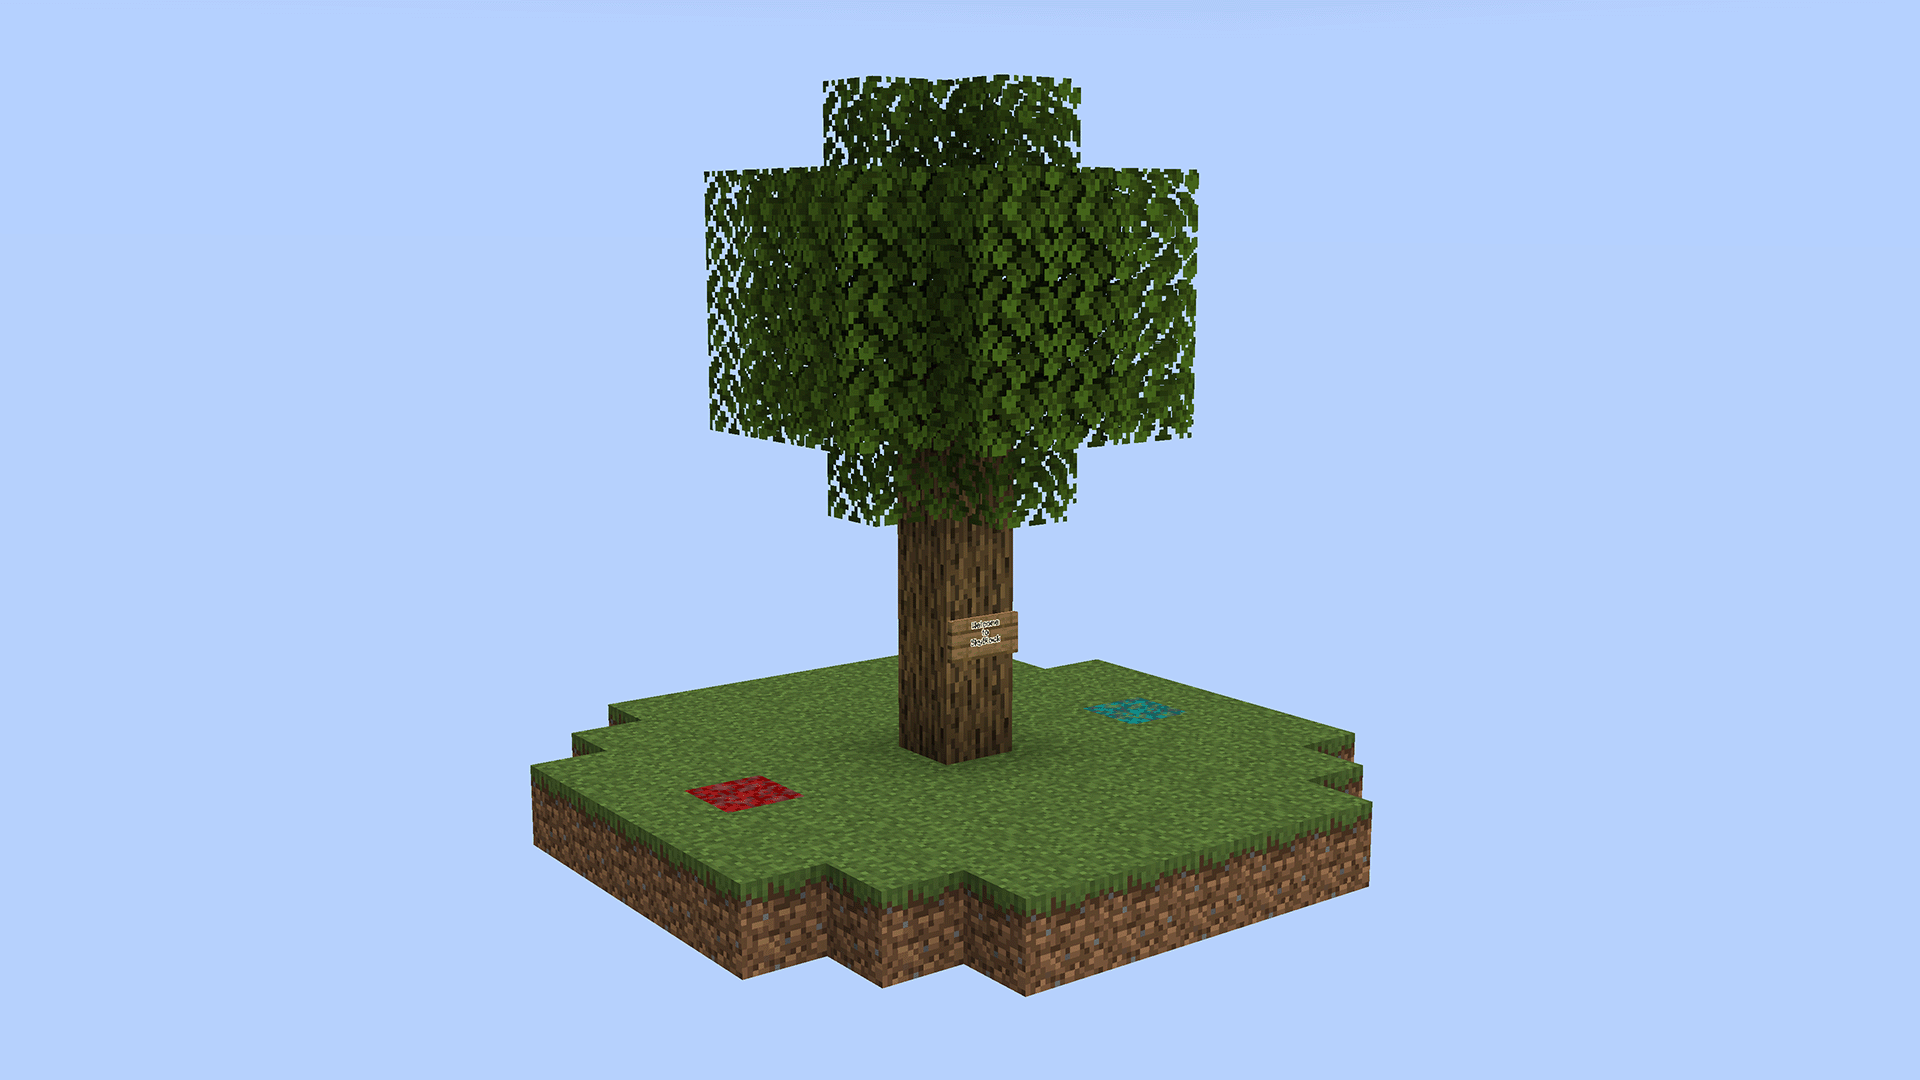
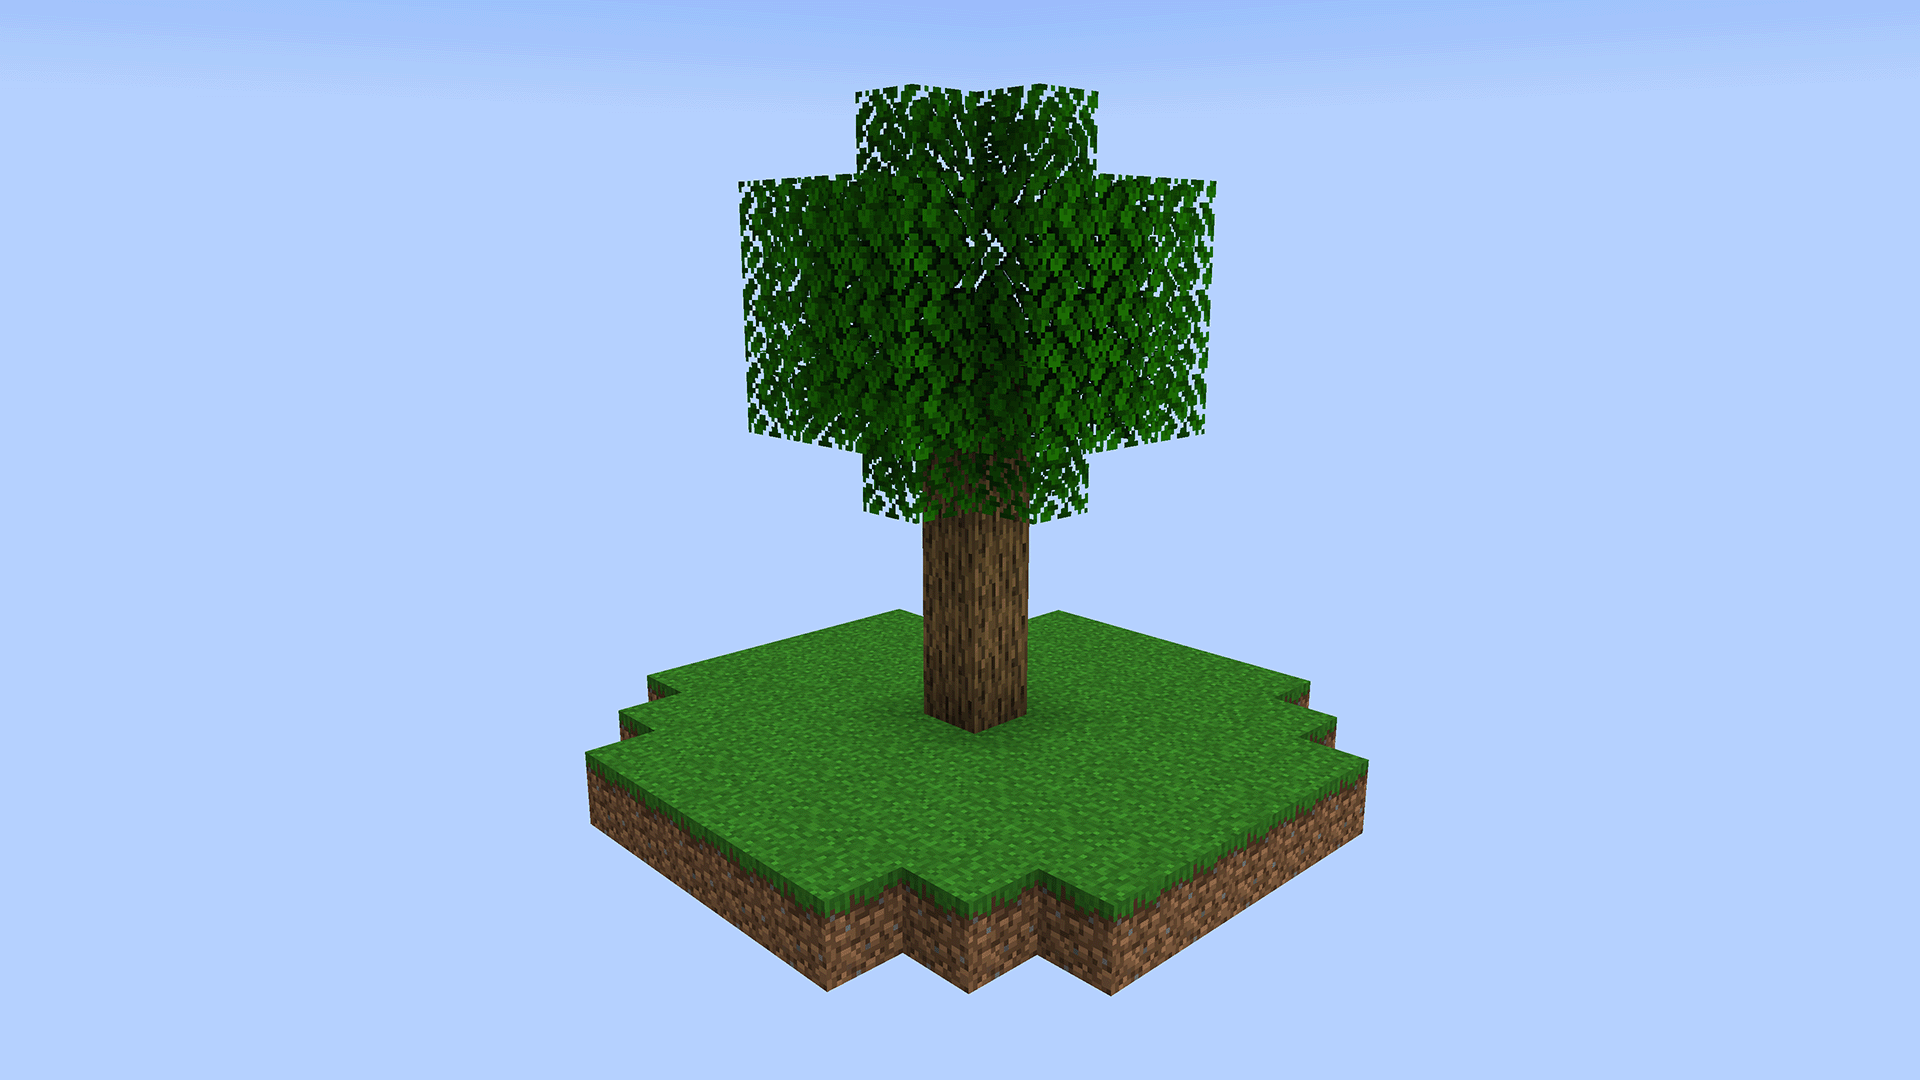
Remove Nylium from the start platform and make it generate with forced portals

Changed region(s): [[0.125, 0.0, 0.8438, 0.9167]]

diff --git a/src/main/java/com/jsorrell/carpetskyadditions/mixin/PortalForcerMixin.java b/src/main/java/com/jsorrell/carpetskyadditions/mixin/PortalForcerMixin.java
@@ -1,12 +1,14 @@
 package com.jsorrell.carpetskyadditions.mixin;
 
 import com.jsorrell.carpetskyadditions.settings.SkyAdditionsSettings;
+import net.minecraft.block.BlockState;
 import net.minecraft.block.Blocks;
 import net.minecraft.server.world.ServerWorld;
 import net.minecraft.util.math.BlockPos;
 import net.minecraft.util.math.Direction;
 import net.minecraft.world.BlockLocating;
 import net.minecraft.world.PortalForcer;
+import net.minecraft.world.biome.BiomeKeys;
 import org.spongepowered.asm.mixin.Final;
 import org.spongepowered.asm.mixin.Mixin;
 import org.spongepowered.asm.mixin.Shadow;
@@ -23,6 +25,15 @@ public class PortalForcerMixin {
   @Final
   private ServerWorld world;
 
+  private BlockState getPortalSkirtBlock(BlockPos pos) {
+    if (world.getBiome(pos).matchesKey(BiomeKeys.CRIMSON_FOREST)) {
+      return Blocks.CRIMSON_NYLIUM.getDefaultState();
+    } else if (world.getBiome(pos).matchesKey(BiomeKeys.WARPED_FOREST)) {
+      return Blocks.WARPED_NYLIUM.getDefaultState();
+    }
+    return Blocks.NETHERRACK.getDefaultState();
+  }
+
   @Inject(method = "createPortal", at = @At(value = "CONSTANT", args = "intValue=-1", ordinal = 4), locals = LocalCapture.CAPTURE_FAILSOFT)
   private void addNetherrack(BlockPos pos, Direction.Axis axis, CallbackInfoReturnable<Optional<BlockLocating.Rectangle>> cir, Direction direction, double d, BlockPos blockPos) {
     if (SkyAdditionsSettings.renewableNetherrack) {
@@ -32,7 +43,8 @@ public class PortalForcerMixin {
         for (int j = -2; j < 3; ++j) { // j coordinate perpendicular to portal
           if ((Math.abs(j) == 1 && (i == -1 || i == 2)) ||
             (Math.abs(j) == 2 && (i == 0 || i == 1))) {
-            world.setBlockState(mutablePos.set(blockPos, direction.getOffsetX() * i + rotatedDirection.getOffsetX() * j, -1, direction.getOffsetZ() * i + rotatedDirection.getOffsetZ() * j), Blocks.NETHERRACK.getDefaultState());
+            mutablePos.set(blockPos, direction.getOffsetX() * i + rotatedDirection.getOffsetX() * j, -1, direction.getOffsetZ() * i + rotatedDirection.getOffsetZ() * j);
+            world.setBlockState(mutablePos, getPortalSkirtBlock(mutablePos));
           }
         }
       }

diff --git a/src/main/java/com/jsorrell/carpetskyadditions/settings/SkyAdditionsSettings.java b/src/main/java/com/jsorrell/carpetskyadditions/settings/SkyAdditionsSettings.java
@@ -233,7 +233,7 @@ public class SkyAdditionsSettings {
   public static boolean hugeMushroomsSpreadMycelium = false;
 
   @Rule(
-    desc = "Netherrack generates as part of Nether Portals spawned floating",
+    desc = "Netherrack or Nylium generates as part of Nether Portals spawned floating",
     category = {FEATURE})
   @SkyAdditionsSetting("true")
   public static boolean renewableNetherrack = false;

diff --git a/docs/en_us/features.md b/docs/en_us/features.md
@@ -55,13 +55,16 @@ A Thick Splash Potion will convert all Stone blocks hit by the splash into Deeps
 
 ---
 
-#### Netherrack Generates with Nether Portal Structures ####
+#### Netherrack and Nylium Generates with Nether Portal Structures ####
 
-Provides *Netherrack*
+Provides *Netherrack and Nylium*
 
 Disable with ```/carpetskyadditions removeDefault renewableNetherrack```
 
-When a Nether Portal generates in the void, in generates Netherrack around it, matching the behavior of Bedrock.
+When a Nether Portal generates in the void, it generates a few blocks of Netherrack or Nylium around it.
+
+Which block is generated depends on the Biome -- Crimson Nylium in Crimson Forests, Warped Nylium in Warped Forests,
+Netherrack elsewhere.
 
 ---
 

diff --git a/docs/zh_cn/progression_cn.md b/docs/zh_cn/progression_cn.md
@@ -3,8 +3,7 @@
 ### 1. 获得稳定的木头供应
 
 在一开始，你会试图种植尽可能多的树苗，毕竟等待树苗生长是一个很漫长的过程。
-在此期间请确保你保护好了你的草方块和菌岩，因为目前并没有为他们增添额外的可获取方式，他们将会是你的根基与全部。
-或许你可以在菌岩上面放置一个不会导致菌岩退化的非完整方块，那样就可以避免你不小心将它破坏了。
+在此期间请确保你保护好了你的草方块，因为目前并没有为他们增添额外的可获取方式，他们将会是你的根基与全部。
 
 ### 2. 前往低Y
 

diff --git a/docs/en_us/generation.md b/docs/en_us/generation.md
@@ -9,7 +9,7 @@ The only difference is that End Portal eyes are randomized -- this may change in
 Only a few things are generated:
 
 - A small starting island where you spawn:
-  ![small spawn platform with grass, both types of nylium, and a tree](../screenshots/spawn_platform.png?raw=true "Spawn Platform")
+  ![small spawn platform with grass and an oak tree](../screenshots/spawn_platform.png?raw=true "Spawn Platform")
 
 - End Portal Frames (unless `generateEndPortals` is set to `false`):
   ![end portal frame remains](../screenshots/end_portal.png?raw=true "End Portal Frame")

diff --git a/docs/zh_cn/generation_cn.md b/docs/zh_cn/generation_cn.md
@@ -8,7 +8,7 @@
 
 只有少量事物会在伴随世界生成：
 + 一个小的出生点平台：
-  ![一个小出生点平台，包括草方块、菌丝、菌岩，以及一棵树](../screenshots/spawn_platform.png?raw=true "出生点平台")
+  ![一个小出生点平台，包括草方块，以及一棵树](../screenshots/spawn_platform.png?raw=true "出生点平台")
 
 + 末地传送门框架（除非属性`generateEndPortals`被设置为`false`）：
   ![末地传送门框架将得到保留](../screenshots/end_portal.png?raw=true "末地传送门框架")

diff --git a/docs/en_us/progression.md b/docs/en_us/progression.md
@@ -4,8 +4,7 @@
 
 You want as many saplings planted as possible because at the beginning you will spend most of your time waiting for
 trees to grow.
-Make sure to keep your Nylium and Grass safe because it's all you're going to get.
-Maybe place a non-solid block on the Nylium so you don't accidentally destroy it.
+Make sure to keep your Grass safe because it's all you're going to get.
 
 ### 2. Get to a Low Y Level
 
